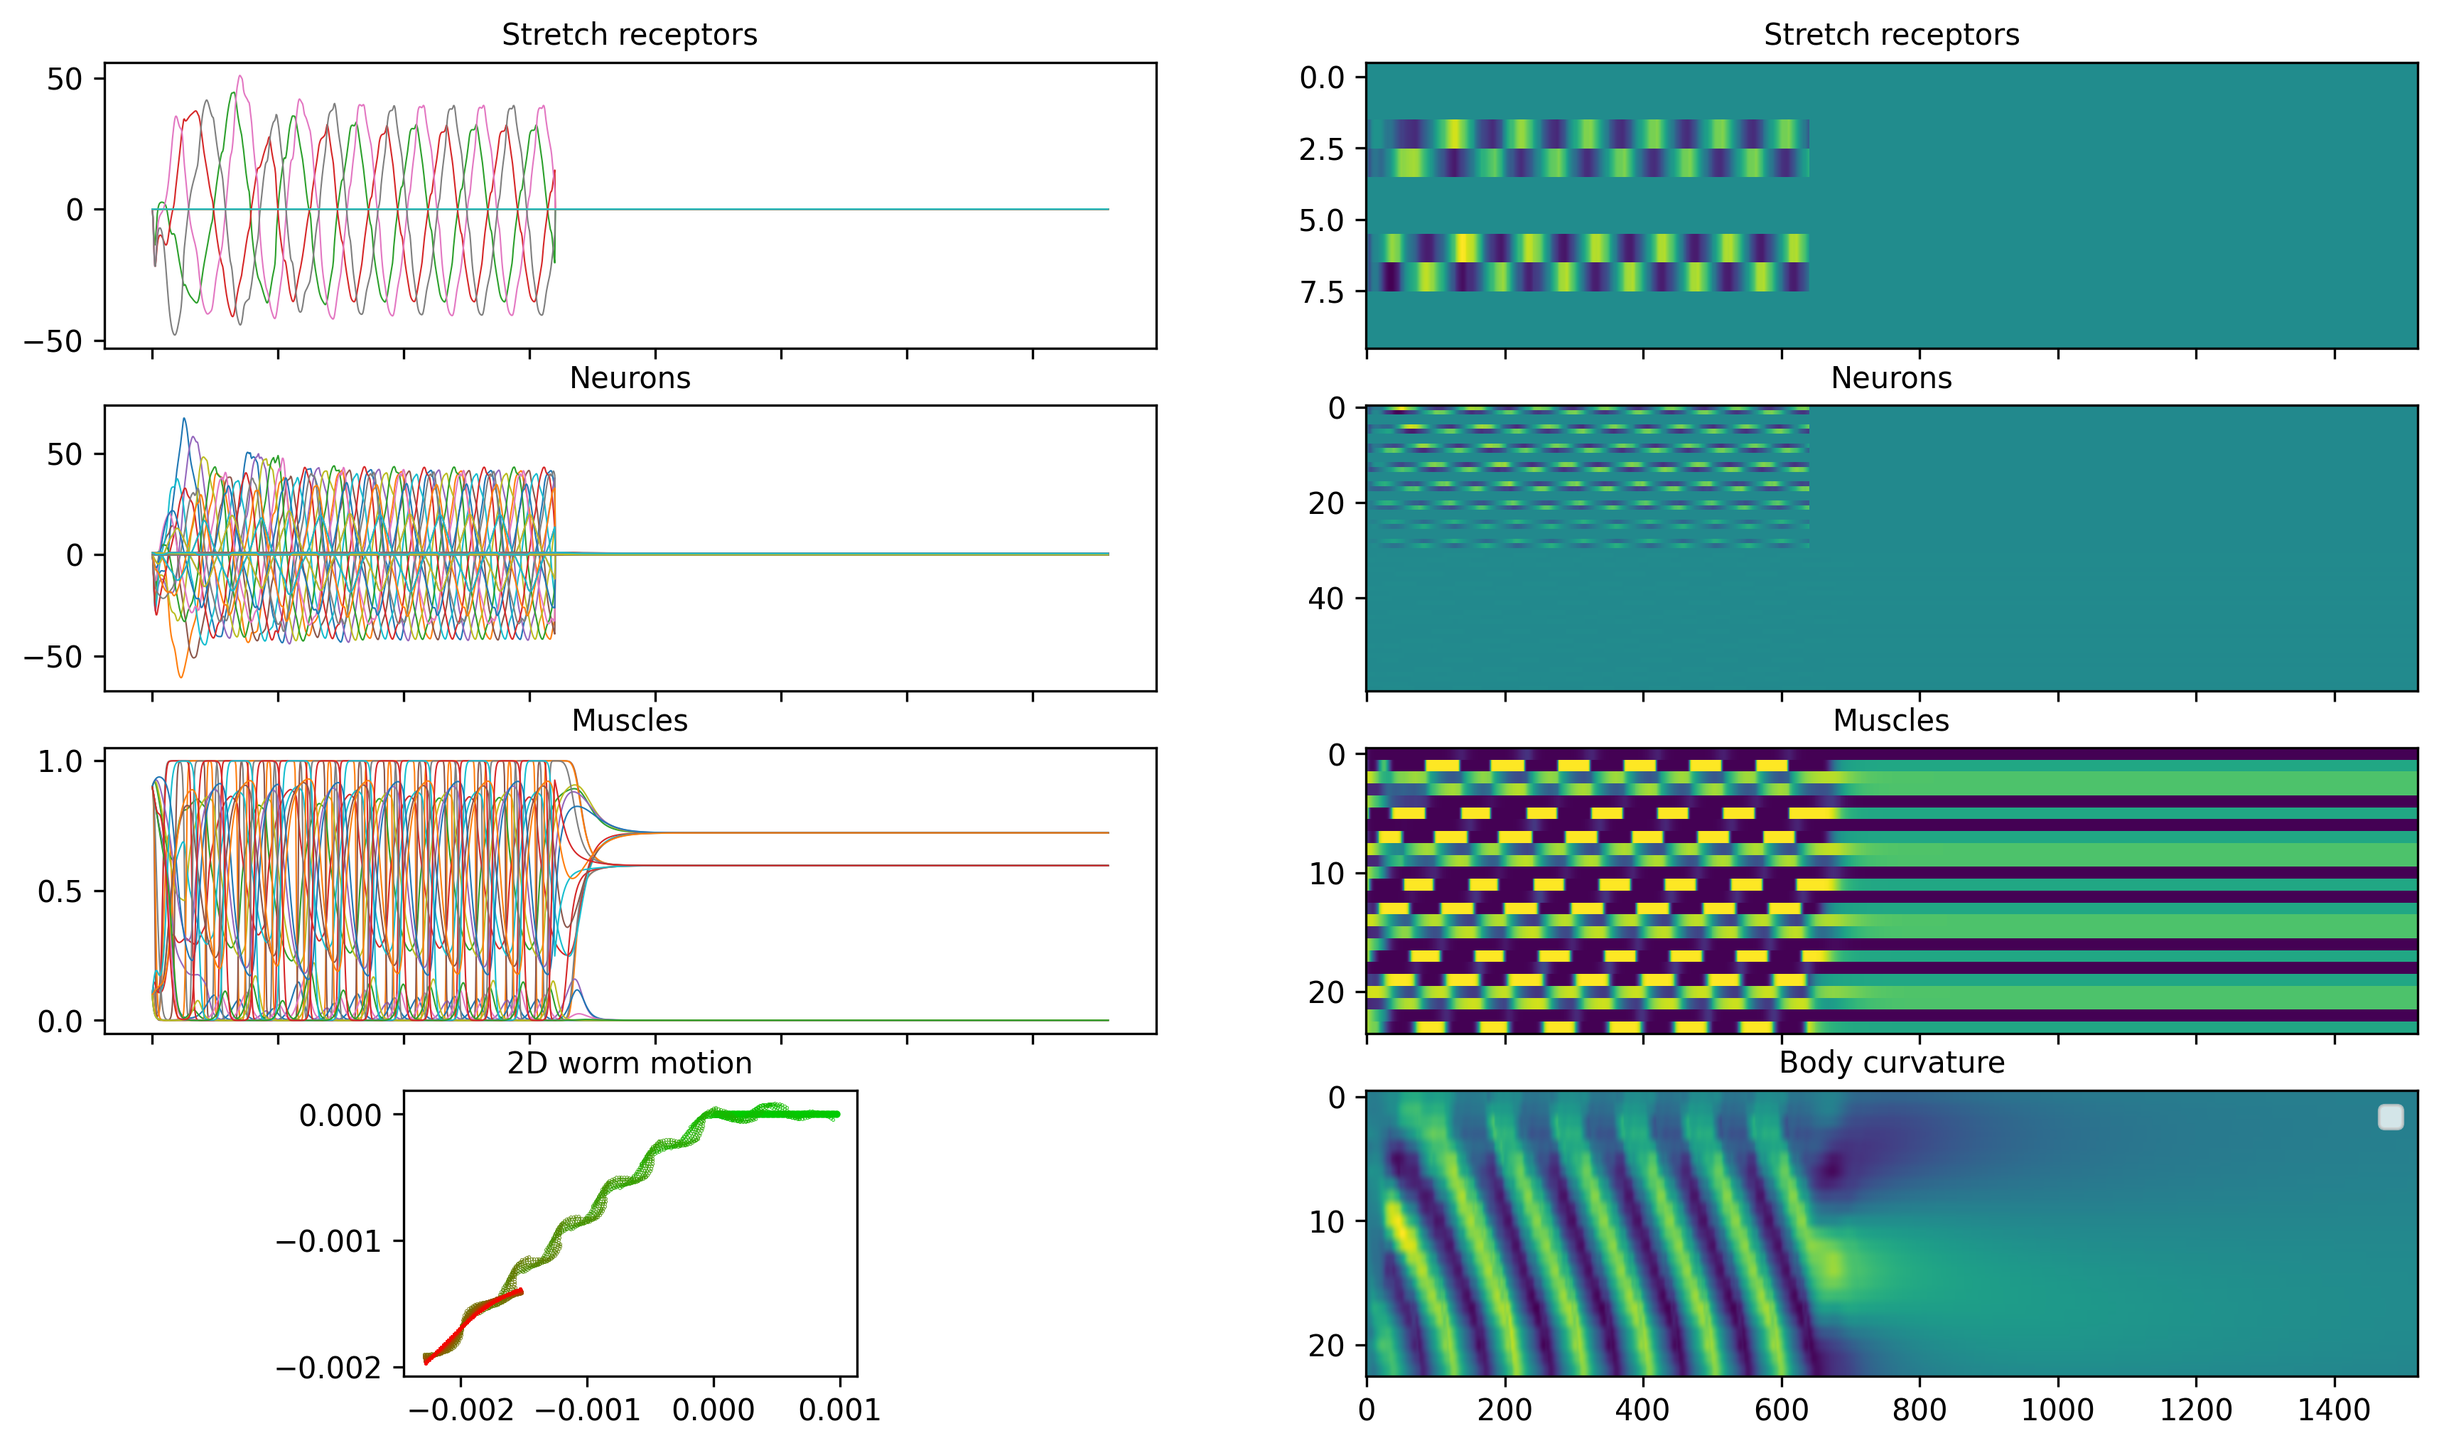
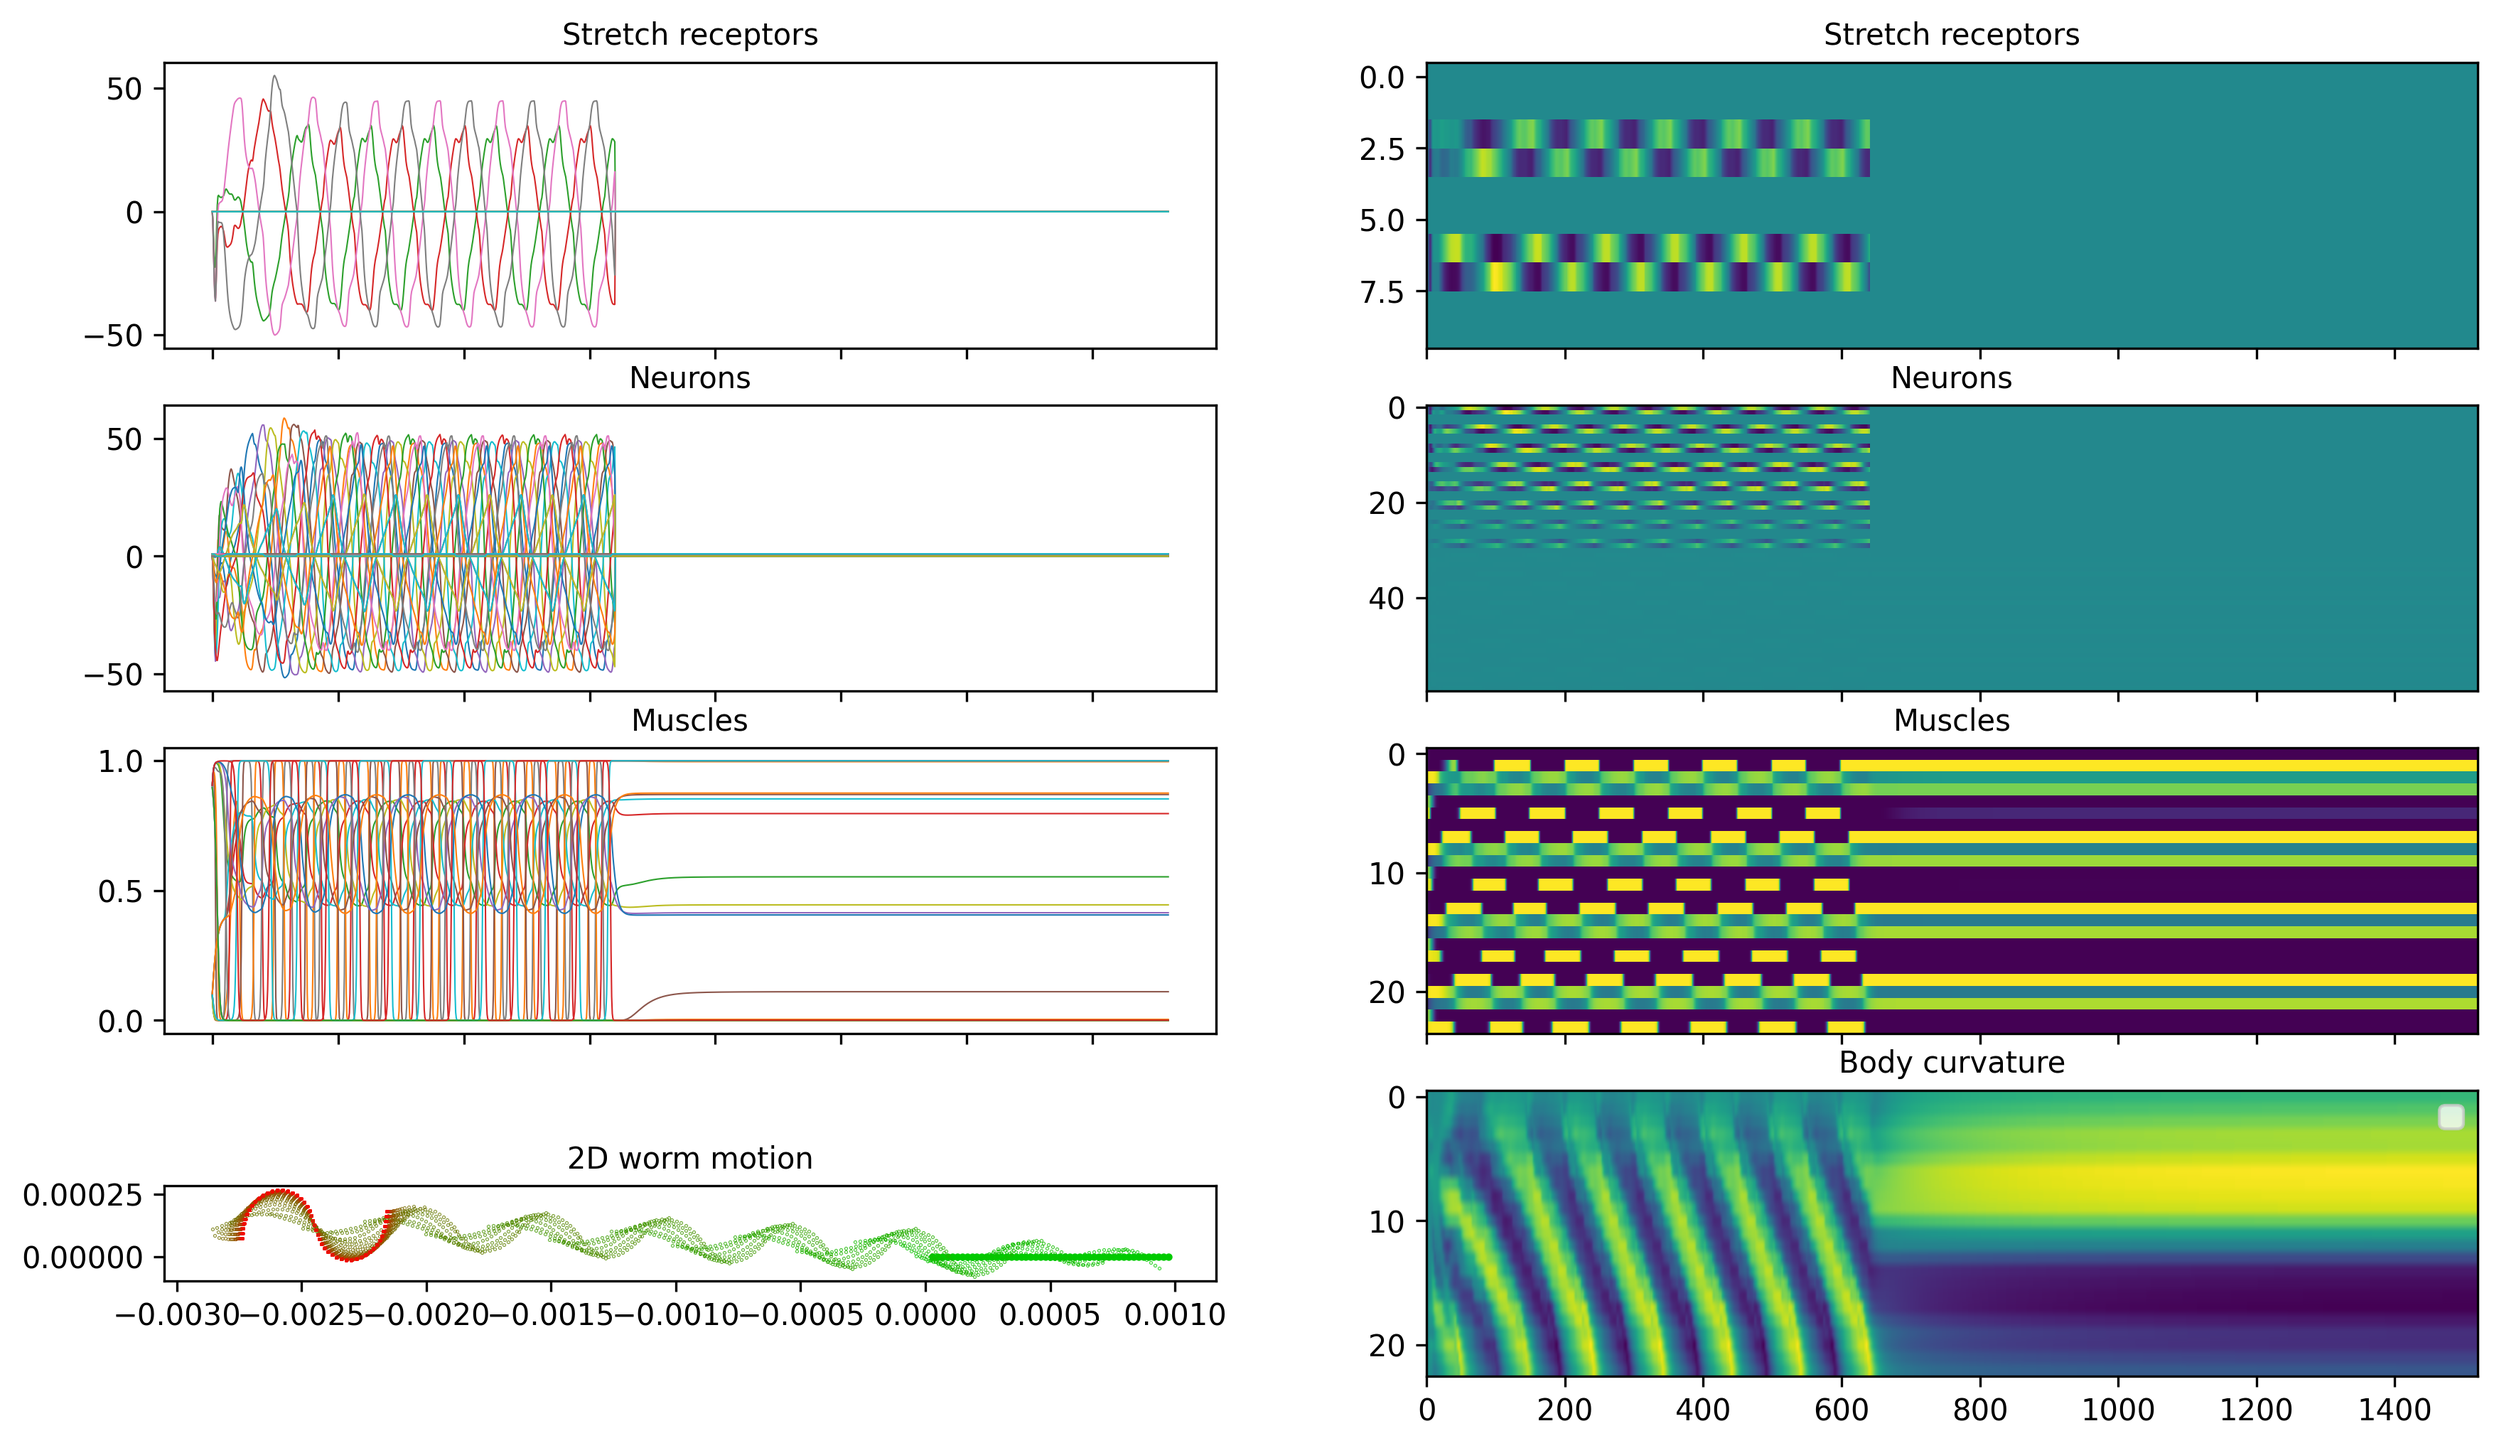
Test using openlibm for math functions...

diff --git a/TSearch.cpp b/TSearch.cpp
@@ -23,7 +23,7 @@
 // *******************************************************************************
 
 #include "TSearch.h"
-#include <math.h>
+#include <openlibm.h>
 #include <limits.h>
 #include <iostream>
 #include <fstream>

diff --git a/WormBody.h b/WormBody.h
@@ -20,7 +20,11 @@
 
 #include <iostream>
 #include <stdlib.h> 
-#include <cmath>
+#include <openlibm.h>
+
+#ifndef M_PI
+#define M_PI 3.14159265358979323846
+#endif
 
 using namespace std;
 

diff --git a/main.cpp b/main.cpp
@@ -6,7 +6,7 @@
 
 #include <iostream>
 #include <iomanip>
-#include <math.h>
+#include <openlibm.h>
 #include "TSearch.h"
 #include "VectorMatrix.h"
 #include "Worm.h"

diff --git a/StretchReceptor.h b/StretchReceptor.h
@@ -9,7 +9,7 @@
 
 #include "VectorMatrix.h"
 #include "random.h"
-#include <cmath>
+#include <openlibm.h>
 using namespace std;
 
 class StretchReceptor {

diff --git a/Muscles.h b/Muscles.h
@@ -6,7 +6,7 @@
 
 #include "VectorMatrix.h"
 #include "random.h"
-#include <cmath>
+#include <openlibm.h>
 using namespace std;
 
 class Muscles {

diff --git a/random.cpp b/random.cpp
@@ -6,7 +6,7 @@
 
 #include "random.h"
 #include <stdlib.h>
-#include <math.h>
+#include <openlibm.h>
 #include <iostream>
 
 using namespace std;

diff --git a/NervousSystem.h b/NervousSystem.h
@@ -8,7 +8,7 @@
 #include "VectorMatrix.h"
 #include "random.h"
 #include <iostream>
-#include <math.h>
+#include <openlibm.h>
 
 #pragma once
 

diff --git a/Worm.h b/Worm.h
@@ -13,7 +13,7 @@
 #include "Muscles.h"
 #include "StretchReceptor.h"
 
-#include <cmath>
+#include <openlibm.h>
 
 #define PI 3.14159265
 
